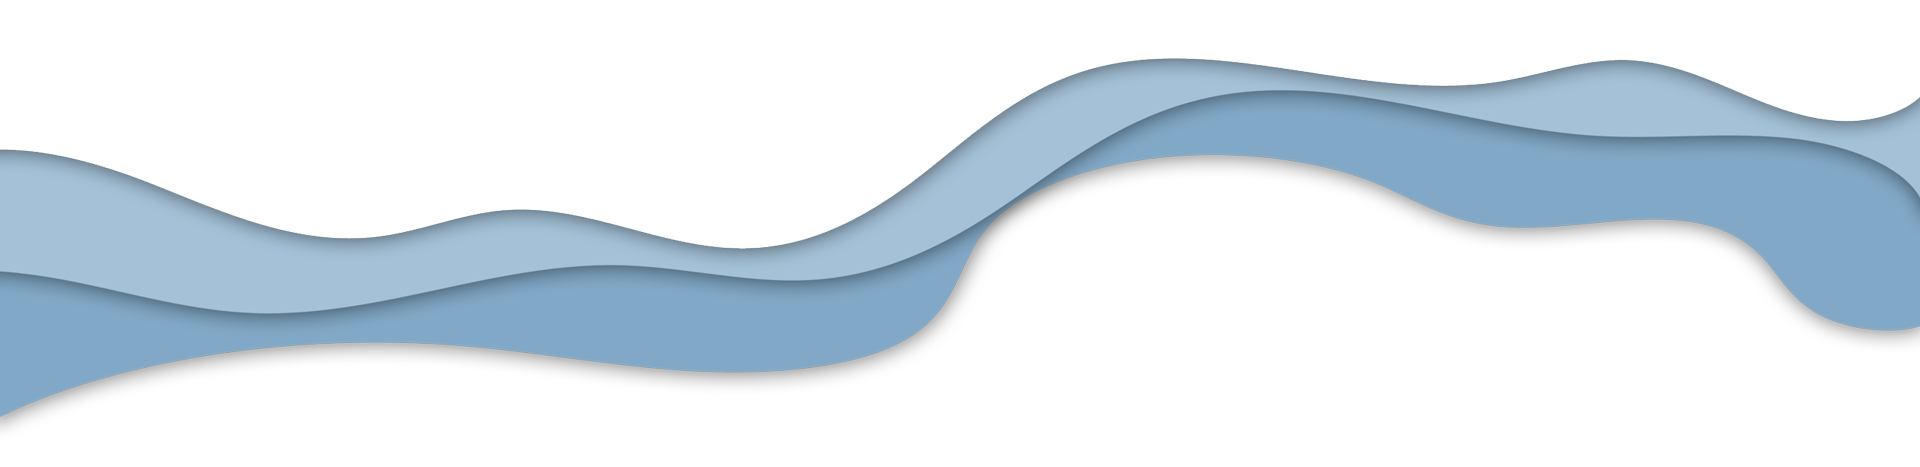
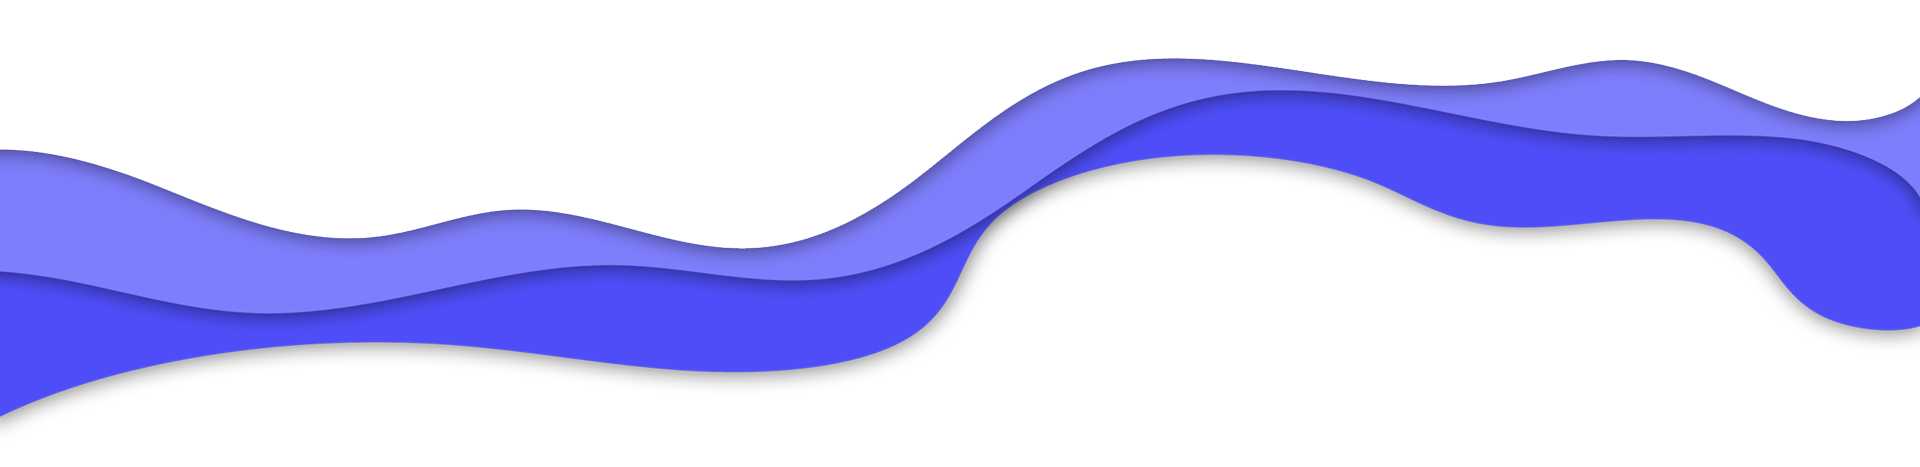
adjust view add scopic add github & linkedin change color shcema

diff --git a/hoc/layout2.js b/hoc/layout2.js
@@ -15,20 +15,21 @@ const Layout = ({ children }) => {
     const svgClass = "fixed z-0"
     const svgPathClass = "shadow-md"
     return (
-        <div className={["min-h-screen relative bg-indigo-100"].join(' ')}>
+        <div className={["min-h-screen relative bg-indigo-600"].join(' ')}>
 
 
             <Head>
                 <link href="https://fonts.googleapis.com/css2?family=Lato&display=swap" rel="stylesheet" />
+                <link rel="stylesheet" href="https://cdnjs.cloudflare.com/ajax/libs/font-awesome/5.15.3/css/all.min.css" integrity="sha512-iBBXm8fW90+nuLcSKlbmrPcLa0OT92xO1BIsZ+ywDWZCvqsWgccV3gFoRBv0z+8dLJgyAHIhR35VZc2oM/gI1w==" crossorigin="anonymous" referrerpolicy="no-referrer" />
                 <link rel="icon" href="/favicon.ico" />
                 <title>Aan Fadhil</title>
             </Head>
             <header className="mb-4 md:mb-10 z-50 relative">
                 <nav>
-                    <ul className="flex flex-row place-content-center gap-x-4 pt-6 font-semibold text-gray-500 ">
+                    <ul className="flex flex-row place-content-center gap-x-4 pt-6  text-gray-200 ">
                         {
                             menu.map(menu => {
-                                const className = router.pathname === menu.link ? "text-purple-800" : ''
+                                const className = router.pathname === menu.link ? "text-white font-semibold" : ''
                                 return <li key={menu.label} className={[className, ' z-50'].join(' ')}>
                                     <Link href={menu.link}>
                                         {menu.label}
@@ -47,9 +48,9 @@ const Layout = ({ children }) => {
 
 
             <div className="fixed w-screen bottom-0 top-60 md:bottom-0 md:top-auto z-0">
-                <img src="/Papercut2.png" className="w-screen z-0" />
+                <img src="/Papercut.png" className="w-screen z-0" />
             </div>
-            <footer className="absolute w-screen bottom-0 text-center text-gray-500 text-sm p-1">
+            <footer className="absolute w-screen bottom-0 text-center text-gray-200 text-sm p-1">
                 ©2021 built with NextJs. Powered by Vercel
             </footer>
         </div>

diff --git a/pages/contact.js b/pages/contact.js
@@ -1,4 +1,4 @@
-import {useEffect} from 'react';
+import { useEffect } from 'react';
 import Head from 'next/head'
 import Image from 'next/image'
 import TextBox from '../components/forms/textBox';
@@ -9,7 +9,7 @@ import kwesforms from 'kwesforms';
 const Contact = () => {
     useEffect(() => {
         kwesforms.init()
-    },[])
+    }, [])
     return (
         <Layout>
             <Head>
@@ -24,6 +24,11 @@ const Contact = () => {
                         <TextBox required max={100} label="How can I Help You ?" type="text" name="bussiness" />
                         <button type="submit" className="bg-purple-700 text-center text-white mt-2 py-2 md:w-1/3 font-semibold hover:bg-purple-800 transition hover:shadow-xl transform hover:-translate-y-1 hover:scale-105 ease-out duration-300 rounded-md">Send</button>
                     </form>
+                    <hr className="mt-6"></hr>
+                    <div className="flex flex-col mt-3 text-indigo-800 align-middle text-center">
+                        <a href="https://www.linkedin.com/in/aanfadhil" target="_blank"><i className="fab fa-linkedin mr-2"></i>Linkedin</a>
+                        <a href="https://github.com/AanFadhil" target="_blank"><i className="fab fa-github mr-2"></i>Github</a>
+                    </div>
                 </div>
             </section>
         </Layout>
@@ -31,4 +36,4 @@ const Contact = () => {
 }
 
 
-export default Contact 
+export default Contact

diff --git a/pages/about.js b/pages/about.js
@@ -82,8 +82,12 @@ const About = ({ }) => {
                 <hr />
                 <br />
                 <div className="md:ml-4">
+                    <Sub level={3}>NodeJs Developer</Sub>
+                    <P className="mb-1 font-semibold">Scopic Software (2021 - Present)</P>
+                    <P>Responsible for Building NodeJs library and application, create task breakdown and doing the research needed for a task</P>
+
                     <Sub level={3}>Technical Lead</Sub>
-                    <P className="mb-1 font-semibold">Hitamedia (2020 - Present)</P>
+                    <P className="mb-1 font-semibold">Hitamedia (2020 - 2021)</P>
                     <P>Responsible for Building website and internal project management systems using NodeJs and ReactJs, providing a google sheet solution for finance and marketing data</P>
 
                     <Sub level={3}>Technical Lead</Sub>

diff --git a/hoc/projectLayout.js b/hoc/projectLayout.js
@@ -10,7 +10,7 @@ const Layout = ({ children, title }) => {
                 <title>{title} - Aan Fadhil</title>
             </Head>
             <section className={["mt-14 md:mt-20 z-50", padding].join(' ')}>
-                <div className={contentWrapperClass}><h1 className="font-semibold text-gray-800 text-3xl mb-7">{title}</h1></div>
+                <div className={contentWrapperClass}><h1 className="font-semibold text-gray-100 text-3xl mb-7">{title}</h1></div>
             </section>
             <section className={["bg-white py-4 text-gray-500 shadow-md z-50", padding].join(' ')}>
                 <div className={contentWrapperClass}>
